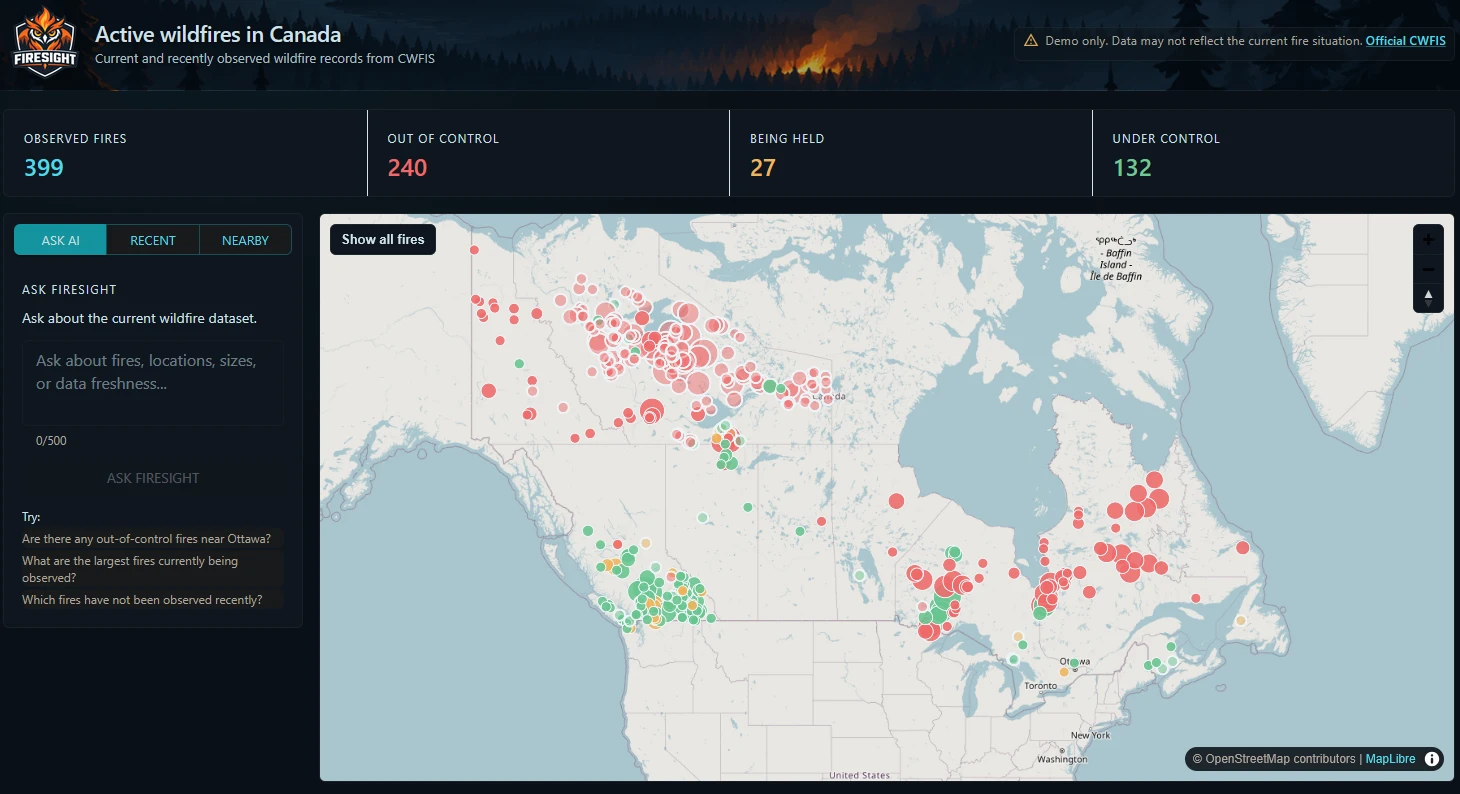
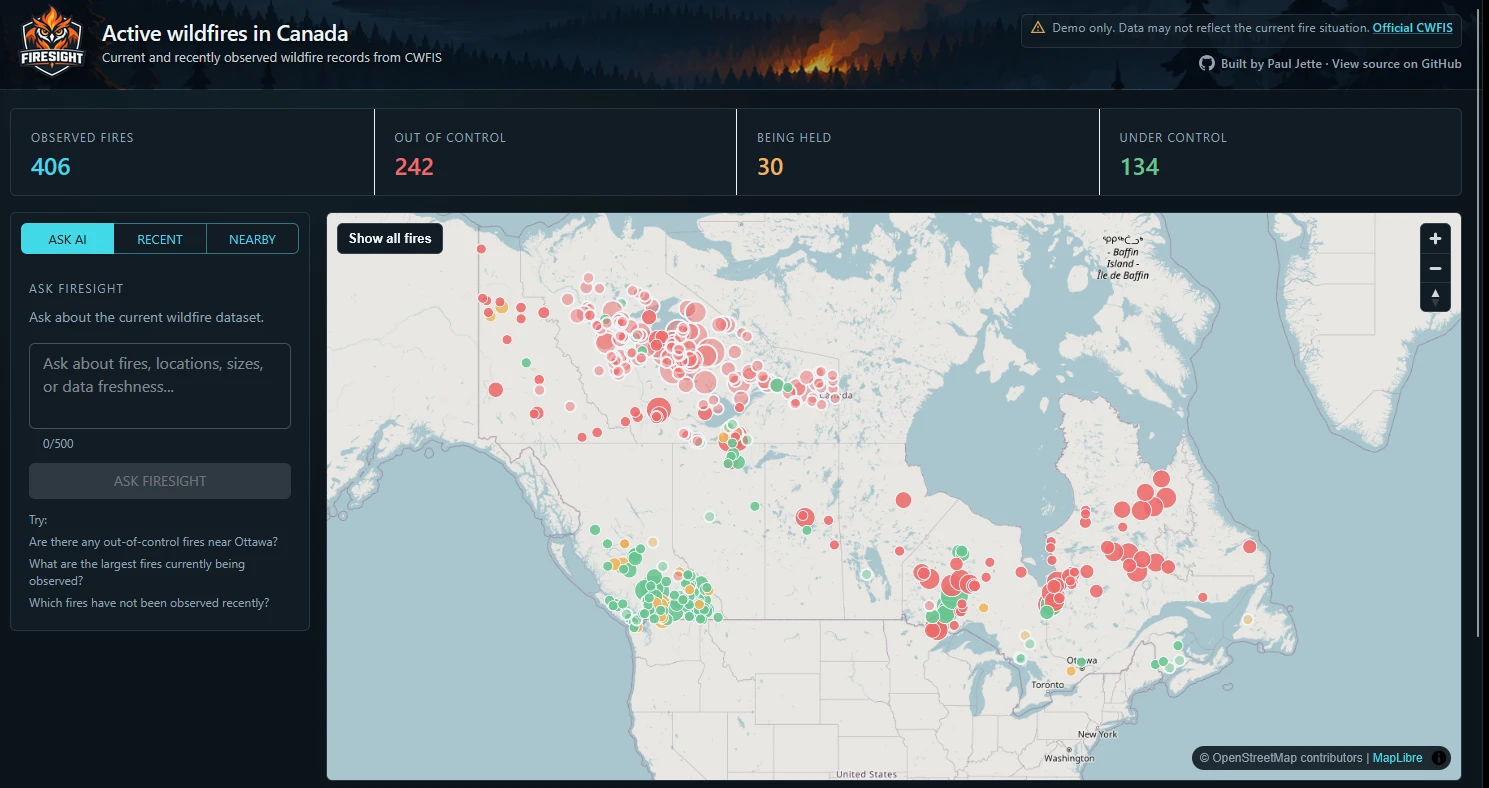
added social media assets

diff --git a/src/Firesight.Web/index.html b/src/Firesight.Web/index.html
@@ -4,7 +4,29 @@
     <meta charset="UTF-8" />
     <link rel="icon" type="image/svg+xml" href="/favicon.svg" />
     <meta name="viewport" content="width=device-width, initial-scale=1.0" />
-    <title>Firesight</title>
+    <title>Firesight: live map of Canadian wildfires</title>
+    <meta
+      name="description"
+      content="A live map of active Canadian wildfires, synced hourly from CWFIS. Search near a place, or ask questions in plain English."
+    />
+
+    <!-- The preview card shown when the site is shared on LinkedIn, Slack, Teams and similar.
+         The image and URL must be absolute, because those services fetch them from outside. -->
+    <meta property="og:type" content="website" />
+    <meta property="og:url" content="https://firesight.codewheel.ca/" />
+    <meta property="og:title" content="Firesight: live map of Canadian wildfires" />
+    <meta
+      property="og:description"
+      content="A live map of active Canadian wildfires, synced hourly from CWFIS. Search near a place, or ask questions in plain English."
+    />
+    <meta property="og:image" content="https://firesight.codewheel.ca/og-image.png" />
+    <meta property="og:image:width" content="1200" />
+    <meta property="og:image:height" content="630" />
+    <meta
+      property="og:image:alt"
+      content="Firesight map of active wildfires across Canada, coloured by status"
+    />
+    <meta name="twitter:card" content="summary_large_image" />
   </head>
   <body>
     <div id="root"></div>
